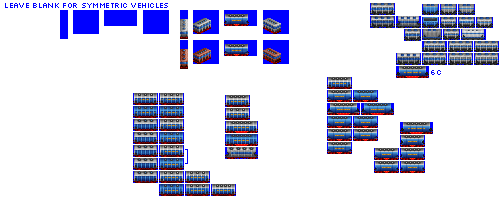
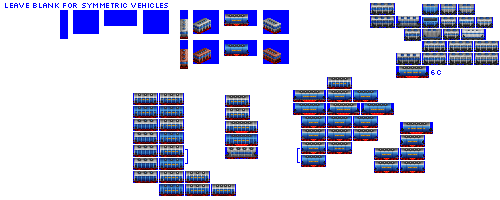
Change: WIP on grain hoppers

Changed region(s): [[0.57, 0.45, 0.66, 0.84], [0.45, 0.21, 0.51, 0.27], [0.45, 0.09, 0.51, 0.12]]

diff --git a/src/vehicles/grain_hopper_cars.py b/src/vehicles/grain_hopper_cars.py
@@ -84,7 +84,7 @@ def main():
     consist.add_unit(type=FreightCar,
                      chassis='4_axle_filled_24px')
 
-    """
+
     consist = GrainHopperCarConsist(roster='pony',
                                       base_numeric_id=2820,
                                       gen=6,
@@ -93,6 +93,6 @@ def main():
 
     consist.add_unit(type=FreightCar,
                      chassis='4_axle_filled_32px')
-    """
+
 
     #--------------- llama ----------------------------------------------------------------------
